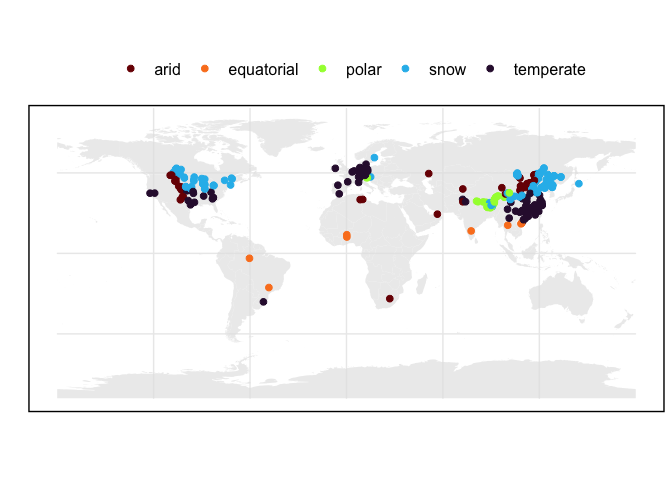
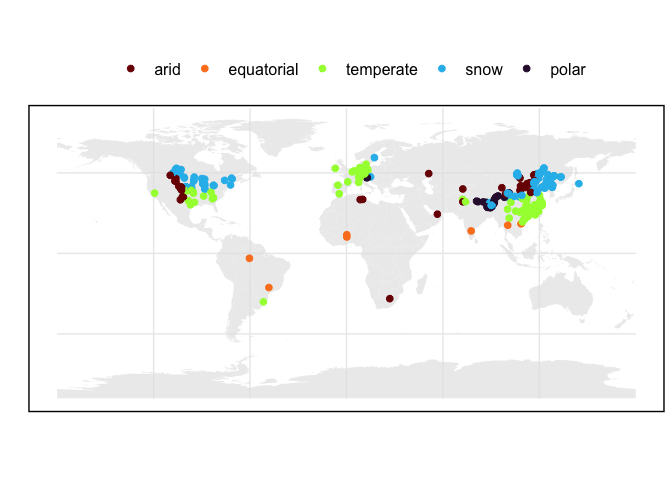
updated report

diff --git a/4-reports/a-report-exploratory.md b/4-reports/a-report-exploratory.md
@@ -3,6 +3,8 @@ Necromass Database: Exploration
 
 ------------------------------------------------------------------------
 
+## FIGURES
+
 ### Geographical Distribution
 
 ![](a-report-exploratory_files/figure-gfm/map_data_points-1.png)<!-- -->
@@ -17,30 +19,7 @@ Necromass Database: Exploration
 
 ### Distribution by ecosystem
 
-![](a-report-exploratory_files/figure-gfm/jitter-ecosystem-1.png)<!-- -->
-
-### Sample numbers summary
-
-#### Sample count by biome
-
-| ClimateTypes |    n |
-|:-------------|-----:|
-| arid         |  137 |
-| equatorial   |   73 |
-| polar        |   79 |
-| snow         | 1317 |
-| temperate    | 1132 |
-| NA           |   53 |
-
-#### Sample count by ecosystem
-
-| ecosystem |    n |
-|:----------|-----:|
-| cropland  | 1466 |
-| forest    |  609 |
-| grassland |  283 |
-| wetland   |  418 |
-| NA        |   15 |
+![](a-report-exploratory_files/figure-gfm/unnamed-chunk-3-1.png)<!-- -->
 
 #### Sample count by depth
 
@@ -49,7 +28,30 @@ Necromass Database: Exploration
 of the 3000+ datapoints, 2512 data points are in the top 20 cm
 (lyrbot_cm \>= 20)
 
-![](a-report-exploratory_files/figure-gfm/unnamed-chunk-5-1.png)<!-- -->
+![](a-report-exploratory_files/figure-gfm/unnamed-chunk-4-1.png)<!-- -->
+
+## TABLES
+
+### Sample count by biome
+
+| ClimateTypes |    n |
+|:-------------|-----:|
+| arid         |  137 |
+| equatorial   |   69 |
+| polar        |   67 |
+| snow         | 1305 |
+| temperate    | 1082 |
+| NA           |   53 |
+
+### Sample count by ecosystem
+
+| ecosystem |    n |
+|:----------|-----:|
+| cropland  | 1453 |
+| forest    |  555 |
+| grassland |  272 |
+| wetland   |  418 |
+| NA        |   15 |
 
 ------------------------------------------------------------------------
 
@@ -58,7 +60,7 @@ of the 3000+ datapoints, 2512 data points are in the top 20 cm
 Session Info
 </summary>
 
-Date run: 2024-02-02
+Date run: 2024-07-16
 
     ## R version 4.2.1 (2022-06-23)
     ## Platform: x86_64-apple-darwin17.0 (64-bit)
@@ -83,31 +85,38 @@ Date run: 2024-02-02
     ## [16] tibble_3.1.8            ggplot2_3.4.3           tidyverse_2.0.0        
     ## 
     ## loaded via a namespace (and not attached):
-    ##  [1] viridisLite_0.4.1    distributional_0.3.1 highr_0.9           
-    ##  [4] stats4_4.2.1         ggdist_3.2.0         base64url_1.4       
-    ##  [7] cellranger_1.1.0     yaml_2.3.5           pillar_1.8.1        
-    ## [10] backports_1.4.1      lattice_0.20-45      glue_1.6.2          
-    ## [13] digest_0.6.29        colorspace_2.0-3     htmltools_0.5.3     
-    ## [16] pkgconfig_2.0.3      raster_3.6-23        s2_1.1.0            
-    ## [19] webshot_0.5.4        processx_3.7.0       terra_1.7-46        
-    ## [22] satellite_1.0.4      tzdb_0.3.0           timechange_0.2.0    
-    ## [25] proxy_0.4-27         googledrive_2.0.0    farver_2.1.1        
-    ## [28] generics_0.1.3       ellipsis_0.3.2       withr_2.5.0         
-    ## [31] cli_3.6.0            mapview_2.11.0       readxl_1.4.2        
-    ## [34] magrittr_2.0.3       ps_1.7.1             evaluate_0.16       
-    ## [37] fs_1.5.2             fansi_1.0.3          foreign_0.8-82      
-    ## [40] class_7.3-20         tools_4.2.1          data.table_1.14.4   
-    ## [43] hms_1.1.2            gargle_1.2.0         lifecycle_1.0.3     
-    ## [46] munsell_0.5.0        targets_0.14.0       callr_3.7.2         
-    ## [49] compiler_4.2.1       e1071_1.7-11         rlang_1.1.1         
-    ## [52] classInt_0.4-7       units_0.8-0          grid_4.2.1          
-    ## [55] rstudioapi_0.14      htmlwidgets_1.5.4    igraph_1.3.4        
-    ## [58] crosstalk_1.2.0      labeling_0.4.2       leafem_0.2.0        
-    ## [61] base64enc_0.1-3      rmarkdown_2.21       wk_0.6.0            
-    ## [64] gtable_0.3.0         codetools_0.2-18     DBI_1.1.3           
-    ## [67] R6_2.5.1             knitr_1.42           fastmap_1.1.0       
-    ## [70] utf8_1.2.2           KernSmooth_2.23-20   stringi_1.7.8       
-    ## [73] Rcpp_1.0.11          vctrs_0.5.2          png_0.1-7           
-    ## [76] leaflet_2.2.0        tidyselect_1.2.0     xfun_0.37
+    ##  [1] googledrive_2.0.0    leafem_0.2.0         colorspace_2.0-3    
+    ##  [4] ellipsis_0.3.2       class_7.3-20         leaflet_2.2.0       
+    ##  [7] satellite_1.0.4      base64enc_0.1-3      fs_1.5.2            
+    ## [10] rstudioapi_0.14      proxy_0.4-27         farver_2.1.1        
+    ## [13] fansi_1.0.3          codetools_0.2-18     knitr_1.42          
+    ## [16] cluster_2.1.3        png_0.1-7            targets_0.14.0      
+    ## [19] ggdist_3.2.0         shiny_1.7.2          compiler_4.2.1      
+    ## [22] backports_1.4.1      mapview_2.11.0       fastmap_1.1.0       
+    ## [25] gargle_1.2.0         cli_3.6.0            later_1.3.0         
+    ## [28] s2_1.1.0             htmltools_0.5.7      tools_4.2.1         
+    ## [31] igraph_1.5.1         gtable_0.3.0         agricolae_1.3-5     
+    ## [34] glue_1.6.2           wk_0.6.0             Rcpp_1.0.11         
+    ## [37] cellranger_1.1.0     raster_3.6-23        vctrs_0.5.2         
+    ## [40] nlme_3.1-160         crosstalk_1.2.0      xfun_0.42           
+    ## [43] ps_1.7.1             timechange_0.2.0     mime_0.12           
+    ## [46] miniUI_0.1.1.1       lifecycle_1.0.3      terra_1.7-46        
+    ## [49] MASS_7.3-60          hms_1.1.2            promises_1.2.0.1    
+    ## [52] RColorBrewer_1.1-3   yaml_2.3.5           labelled_2.10.0     
+    ## [55] stringi_1.7.8        highr_0.9            klaR_1.7-1          
+    ## [58] AlgDesign_1.2.1      e1071_1.7-11         rlang_1.1.1         
+    ## [61] pkgconfig_2.0.3      distributional_0.3.1 evaluate_0.16       
+    ## [64] lattice_0.20-45      htmlwidgets_1.6.4    labeling_0.4.2      
+    ## [67] cowplot_1.1.1        processx_3.7.0       tidyselect_1.2.0    
+    ## [70] magrittr_2.0.3       R6_2.5.1             generics_0.1.3      
+    ## [73] base64url_1.4        combinat_0.0-8       DBI_1.1.3           
+    ## [76] pillar_1.8.1         haven_2.5.1          foreign_0.8-82      
+    ## [79] withr_2.5.0          units_0.8-0          questionr_0.7.7     
+    ## [82] KernSmooth_2.23-20   utf8_1.2.2           tzdb_0.3.0          
+    ## [85] rmarkdown_2.21       grid_4.2.1           readxl_1.4.2        
+    ## [88] data.table_1.14.4    callr_3.7.2          digest_0.6.29       
+    ## [91] classInt_0.4-7       webshot_0.5.4        xtable_1.8-4        
+    ## [94] httpuv_1.6.5         stats4_4.2.1         munsell_0.5.0       
+    ## [97] viridisLite_0.4.1
 
 </details>
